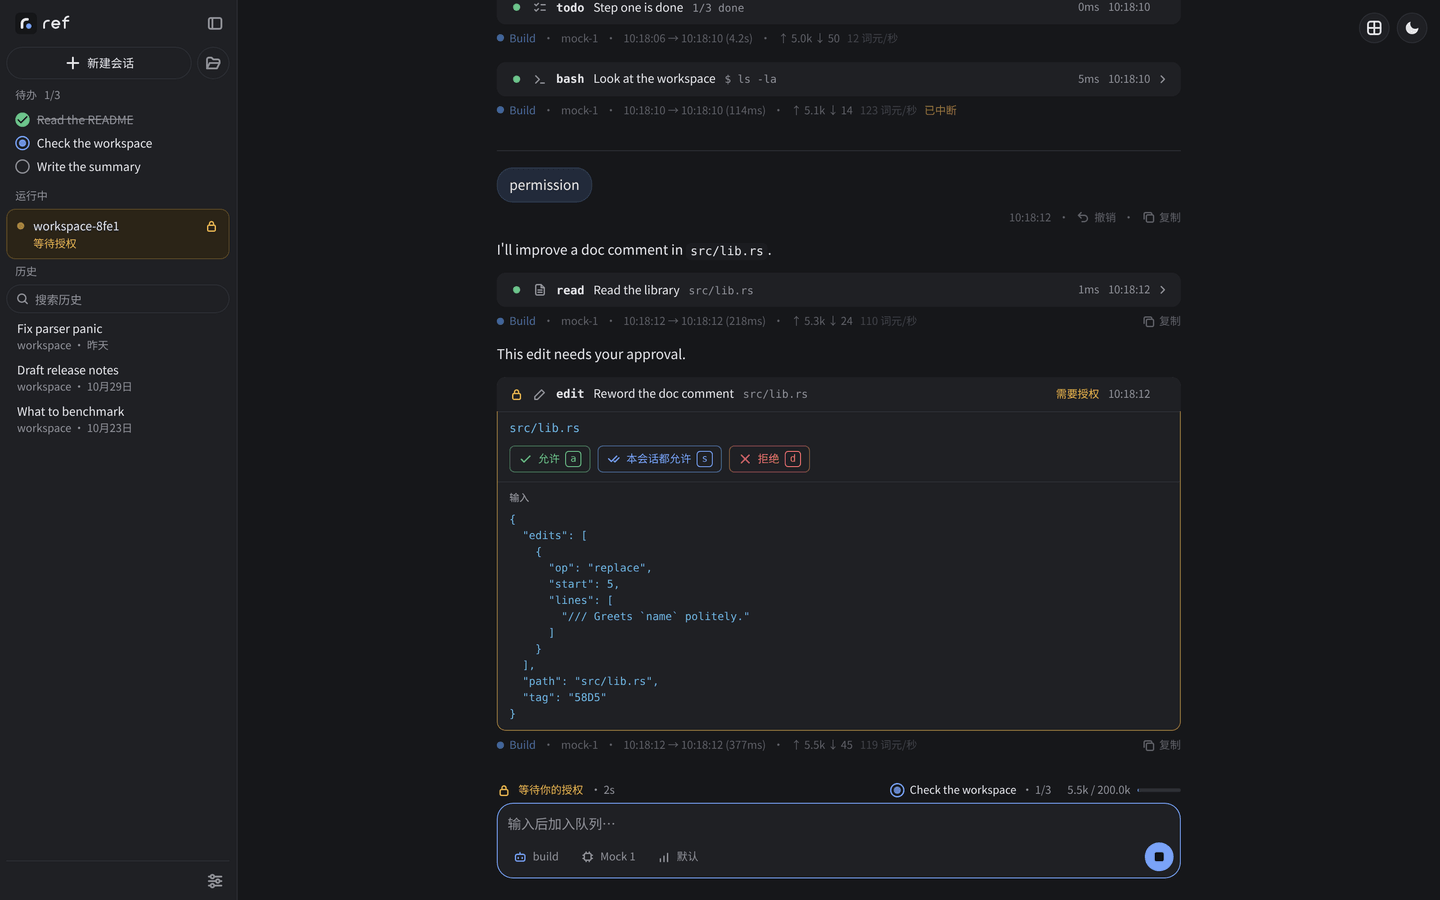
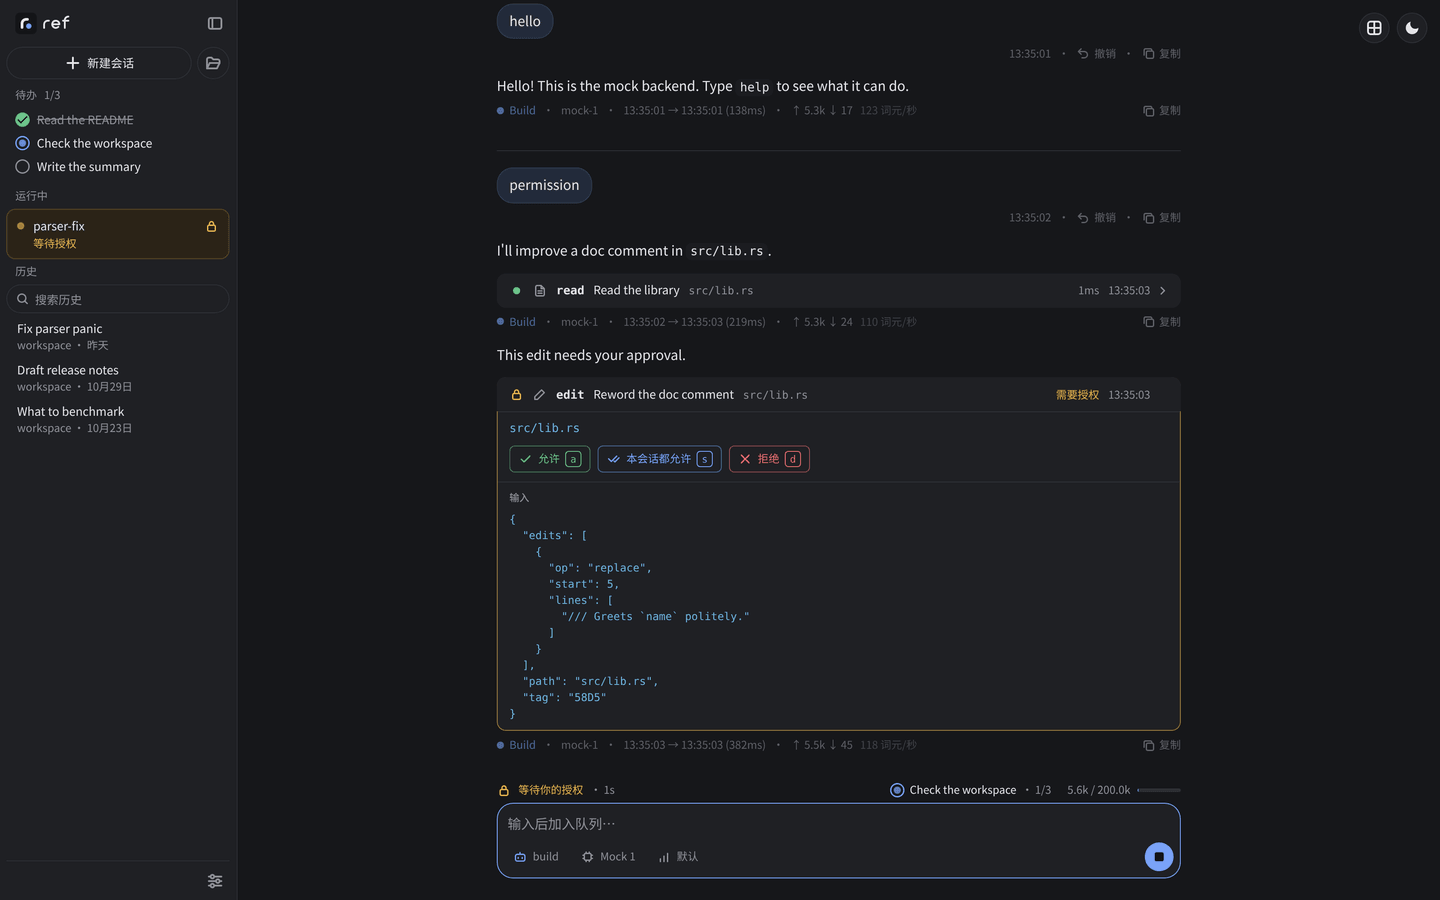
promo: README split views from the hero crew (main, scout, fixer, tester, docs; main's Todo 2/5) and permission cards in a named session without the stopped turn in view; outage and denied takes name their session

diff --git a/promo/capture/scenarios.ts b/promo/capture/scenarios.ts
@@ -14,8 +14,13 @@ const AFTER_CARD_MS = 1200 // a permission card ignores keys for a moment
 const STREAM_MS = 5000
 const DELAY_RING_MS = 3000 // the text, a temporary file and the delete call take about 2 s
 const TOOLS_DONE = 'Done. The edit went through'
-// Lets the split view redraw after a tick of the `todo` list (the next tick is 2.3 s later).
+// Lets the split view redraw after a to-do tick.
 const AFTER_TICK_MS = 800
+// The README split view: the hero script's crew, after main's second report.
+const CREW_MAIN = 'main'
+const CREW_TASK = 'orchestrate: fix the parser bug'
+const CREW_TWO_DONE = 'Two helpers are still working.'
+const CREW_WAIT_MS = 30_000
 const GUI_README_WIDTH = 1280
 const GUI_README_HEIGHT = 1344
 const LOGO_SVG = join(REPO_ROOT, 'assets', 'app', 'ref.svg')
@@ -67,16 +72,23 @@ const TODO_FIRST_TICK = 'Step one is done'
 const BEFORE_STOP_MS = 400
 const DOUBLE_ESC_GAP_MS = 150
 const AFTER_STOP_MS = 800
+const HELLO_REPLY = 'This is the mock backend'
 
-// For README stills: the sidebar's to-do list in progress (one done, one in progress, one
-// pending). The `todo` turn is stopped with esc esc right after its first tick.
+// For README stills: a named session whose sidebar to-do list is in progress (one done, one in
+// progress, one pending). The `todo` turn is stopped with esc esc right after its first tick; a
+// short `hello` turn after it moves the stopped turn above the visible part of the conversation.
 async function leaveTodoInProgress(ui: Ui): Promise<void> {
+  await ui.send(`/rename ${SESSION_FOR_TAKE}`)
+  await ui.pause(600)
   await ui.send('todo')
   await ui.waitText(TODO_FIRST_TICK)
   await ui.pause(BEFORE_STOP_MS)
   await ui.key('Escape')
   await ui.pause(DOUBLE_ESC_GAP_MS)
   await ui.key('Escape')
+  await ui.pause(AFTER_STOP_MS)
+  await ui.send('hello')
+  await ui.waitText(HELLO_REPLY)
   await ui.pause(AFTER_STOP_MS)
 }
 
@@ -181,6 +193,8 @@ export const SCENARIOS: Scenario[] = [
   {
     name: 'denied',
     async run(ui) {
+      await ui.send(`/rename ${SESSION_FOR_TAKE}`)
+      await ui.pause(600)
       await ui.send('denied')
       await ui.waitText('refused by the configuration')
       await ui.shot('denied')
@@ -290,22 +304,19 @@ export const SCENARIOS: Scenario[] = [
     },
   },
   {
-    // The README still of the split view. Every tile is finished or sits in a running tool call,
-    // so no streaming caret is mid-chase, and the window is tall enough for the todo card to show.
-    // The `todo` session goes last, so it is the current one and the sidebar follows its list,
-    // photographed between the first and the second tick (one done, one in progress, one pending).
+    // The README still of the split view: the crew of the hero script (main and the helpers it
+    // names) about 13 s in. main's list in the sidebar is at 2/5 with "Test the fix" in progress,
+    // the fixer's edit waits for approval and the tester is still running.
     name: 'readme-split',
     async run(ui) {
       if (ui.kind === 'gui') await ui.resize(GUI_README_WIDTH, GUI_README_HEIGHT)
-      for (const prompt of ['running', 'denied', 'hello']) {
-        await ui.send(prompt)
-        await ui.command('new')
-        await ui.pause(500)
-      }
-      await ui.send('todo')
-      await ui.pause(800)
+      await ui.send(`/rename ${CREW_MAIN}`)
+      await ui.pause(600)
+      await ui.send(CREW_TASK)
+      await ui.pause(400)
       await ui.command('watch')
-      await ui.waitText(TODO_FIRST_TICK)
+      if (ui.kind === 'gui') await ui.parkPointer()
+      await ui.waitText(CREW_TWO_DONE, CREW_WAIT_MS)
       await ui.pause(AFTER_TICK_MS)
       await ui.shot('split-readme', { readme: true, readmeName: shotFileName(ui.kind, 'split-view', ui.lang) })
     },

diff --git a/promo/capture/tui.ts b/promo/capture/tui.ts
@@ -122,6 +122,8 @@ async function captureSplit(browser: Browser): Promise<void> {
 // run of the same prompt is stopped with esc esc while it waits. Markers: enter, attempt1..4,
 // done, again, esc.
 const OUTAGE_PROMPT = 'outage run the tests and fix the failures'
+const OUTAGE_SESSION = 'main'
+const RENAME_SETTLE_MS = 800
 const OUTAGE_DONE = 'All 12 tests pass now.'
 const OUTAGE_ATTEMPTS = 4
 const OUTAGE_WAIT_MS = 90_000
@@ -131,6 +133,10 @@ const BEFORE_ESC_MS = 1200
 
 async function captureOutage(): Promise<void> {
   await withTui(async (tui) => {
+    // Named, so the sidebar shows no generated name; before the films' first frame (mark enter).
+    await tui.type(`/rename ${OUTAGE_SESSION}`, TYPING_DELAY_MS)
+    tui.send(KEYS.enter)
+    await tui.pause(RENAME_SETTLE_MS)
     await tui.type(OUTAGE_PROMPT, TYPING_DELAY_MS)
     tui.mark('enter')
     tui.send(KEYS.enter)
